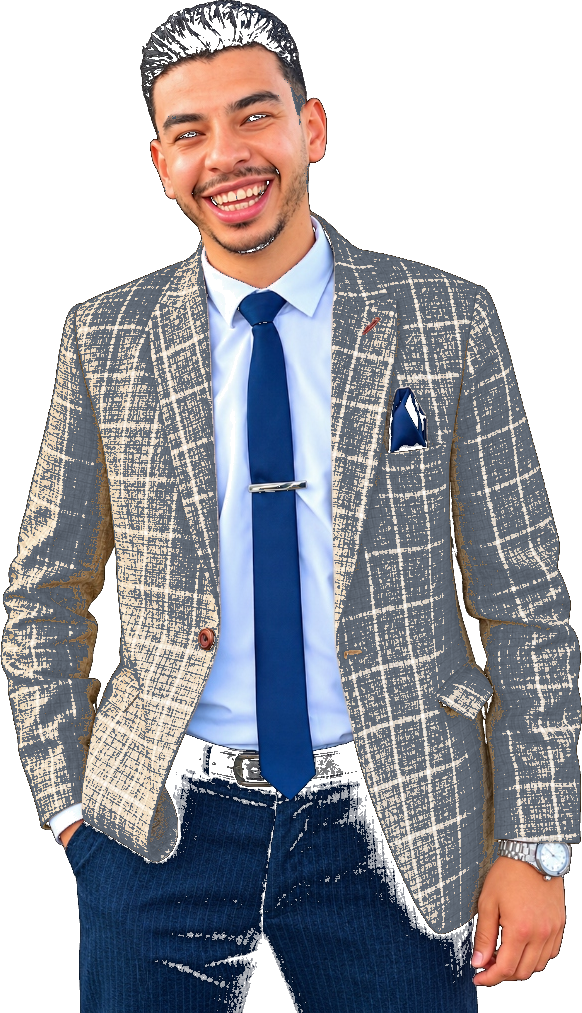
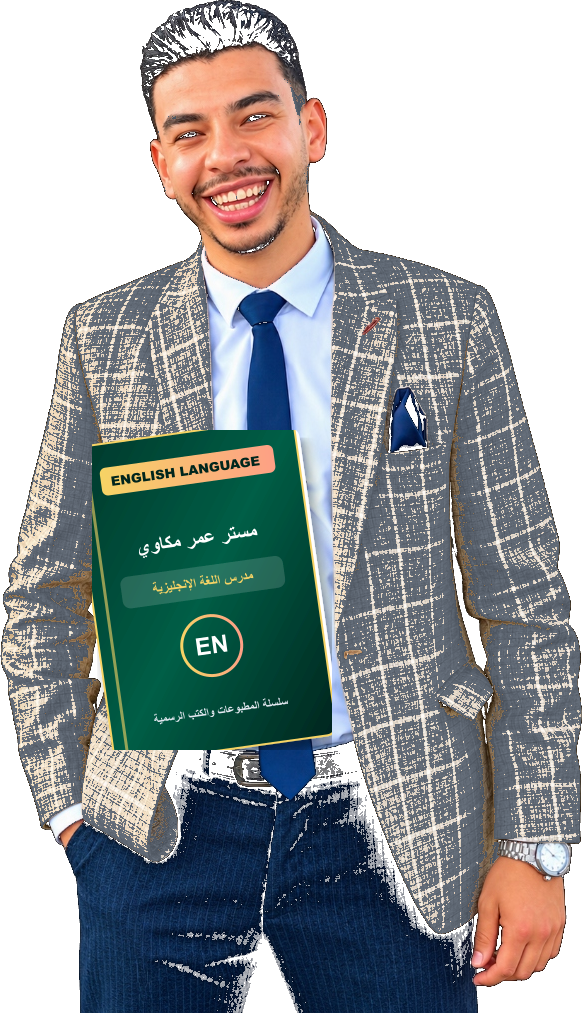
feat: add custom English textbook cover with Mr. Omar's name to Bookstore card

Changed region(s): [[0.1546, 0.3978, 0.5876, 0.7651]]

diff --git a/apps/web/src/components/home/FeaturesSection.tsx b/apps/web/src/components/home/FeaturesSection.tsx
@@ -35,25 +35,25 @@ export default function FeaturesSection() {
       id: 1,
       title: t('features.lecturesTitle', 'محاضرات فيديو عالية الجودة'),
       description: t('features.lecturesDesc', 'شرح تفصيلي للمنهج مع سلايدات توضيحية وأمثلة واقعية لبناء فهم عميق.'),
-      image: '/assets/features/feature-3-cutout.png?v=20261001_v20'
+      image: '/assets/features/feature-3-cutout.png?v=20261001_v25'
     },
     {
       id: 2,
       title: t('features.examsTitle', 'امتحانات تفاعلية وتقييم فوري'),
       description: t('features.examsDesc', 'اختبر مستواك بعد كل درس مع إظهار الإجابات النموذجية والتحليل الفوري لأدائك.'),
-      image: '/assets/features/feature-2-cutout.png?v=20261001_v20'
+      image: '/assets/features/feature-2-cutout.png?v=20261001_v25'
     },
     {
       id: 3,
       title: t('features.storeTitle', 'متجر الكتب والمذكرات'),
       description: t('features.storeDesc', 'اطلب مذكرات وكتب المنهج الرسمية تصلك حتى باب المنزل أو حملها بصيغة PDF.'),
-      image: '/assets/features/feature-4-cutout.png?v=20261001_v20'
+      image: '/assets/features/feature-4-cutout.png?v=20261001_v25'
     },
     {
       id: 4,
       title: t('features.walletTitle', 'محفظة شحن كروت المنصة'),
       description: t('features.walletDesc', 'سهولة الاشتراك وشحن الحساب عبر جميع وسائل الدفع المباشرة أو المحافظ الإلكترونية.'),
-      image: '/assets/features/feature-1-cutout.png?v=20261001_v20'
+      image: '/assets/features/feature-1-cutout.png?v=20261001_v25'
     }
   ];
 
